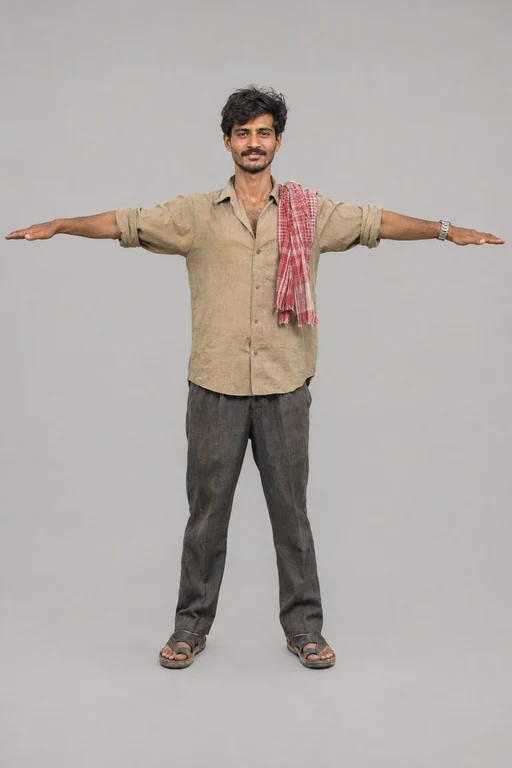
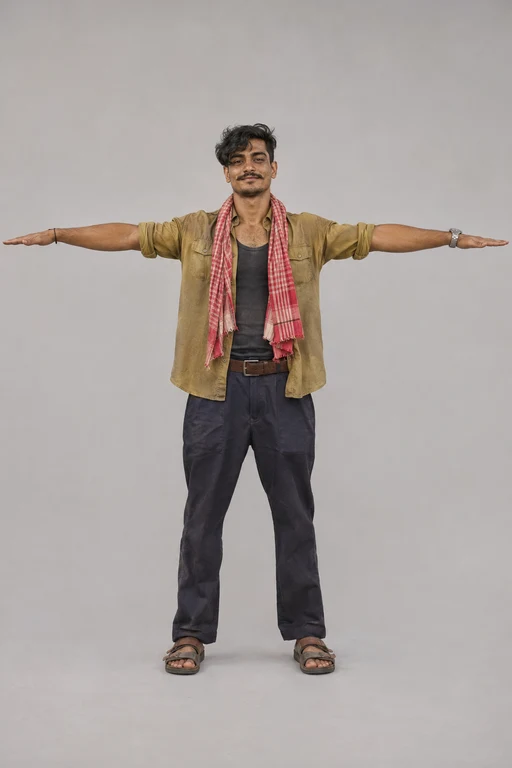
Bittu lead look approved; stale redo and transparency warnings cleared

Changed region(s): [[0.0, 0.0938, 1.0, 0.9062]]

diff --git a/harness/state/journal.md b/harness/state/journal.md
@@ -636,3 +636,4 @@ One line per event, written by task.mjs (start, done, fail, phase changes, inbox
 - 2026-11-14 18:32 mentor message mmwgf124x handled: You were right: my crop squashed the image. At full size there is a clear gap; Meera is approved, all three ready for 3D.
 - 2026-11-14 18:34 mentor message mmwgf49fp handled: New lead-presence prompt on Bittu's picture card: open khaki shirt over a dark vest, bold red gamchha at the neck, distinctive haircut, wiry strong build, confident T-pose.
 - 2026-11-14 18:36 mentor message mmwgf653e handled: Both, like Watch Dogs 2 and GTA: real sun, sky, shadows and screen-space bounce light, with baked shading and cheap emitters standing in where real lights would cost too much. The flat blue dusk with black windows is a known gap, now noted on P2-052.
+- 2026-11-14 18:40 mentor message mmwgfbt9o handled: Bittu approved: now he reads as the hero. Meera's card kept an old redo mark after approval and a wrong transparency warning; both cleared, all six cards show ready.
